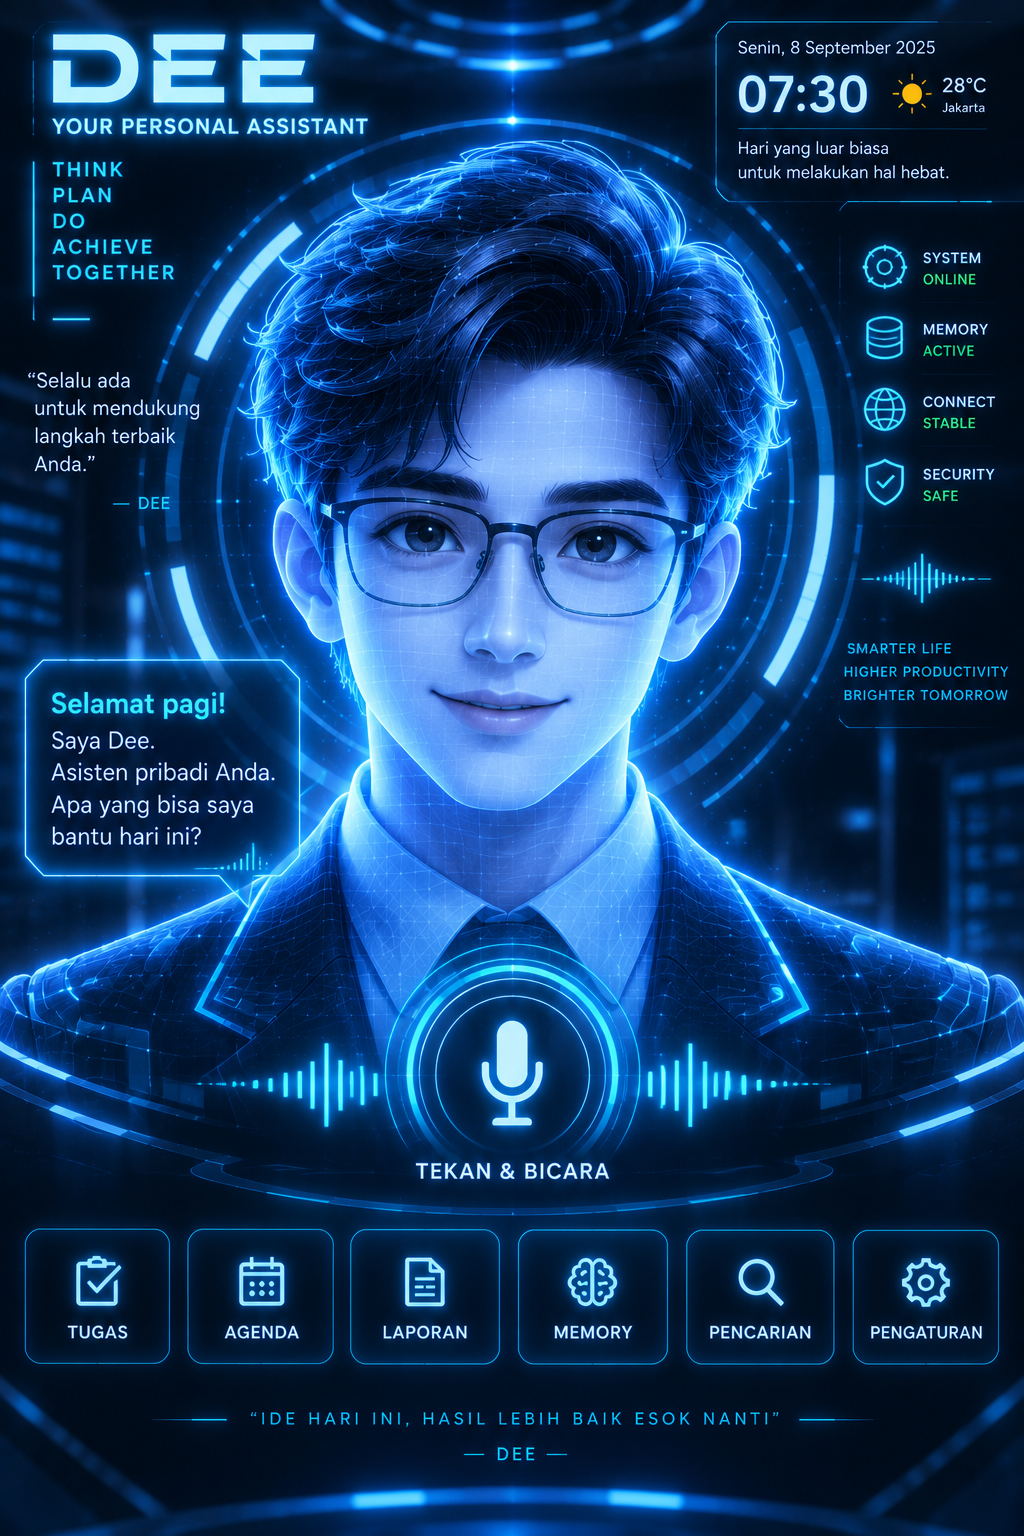
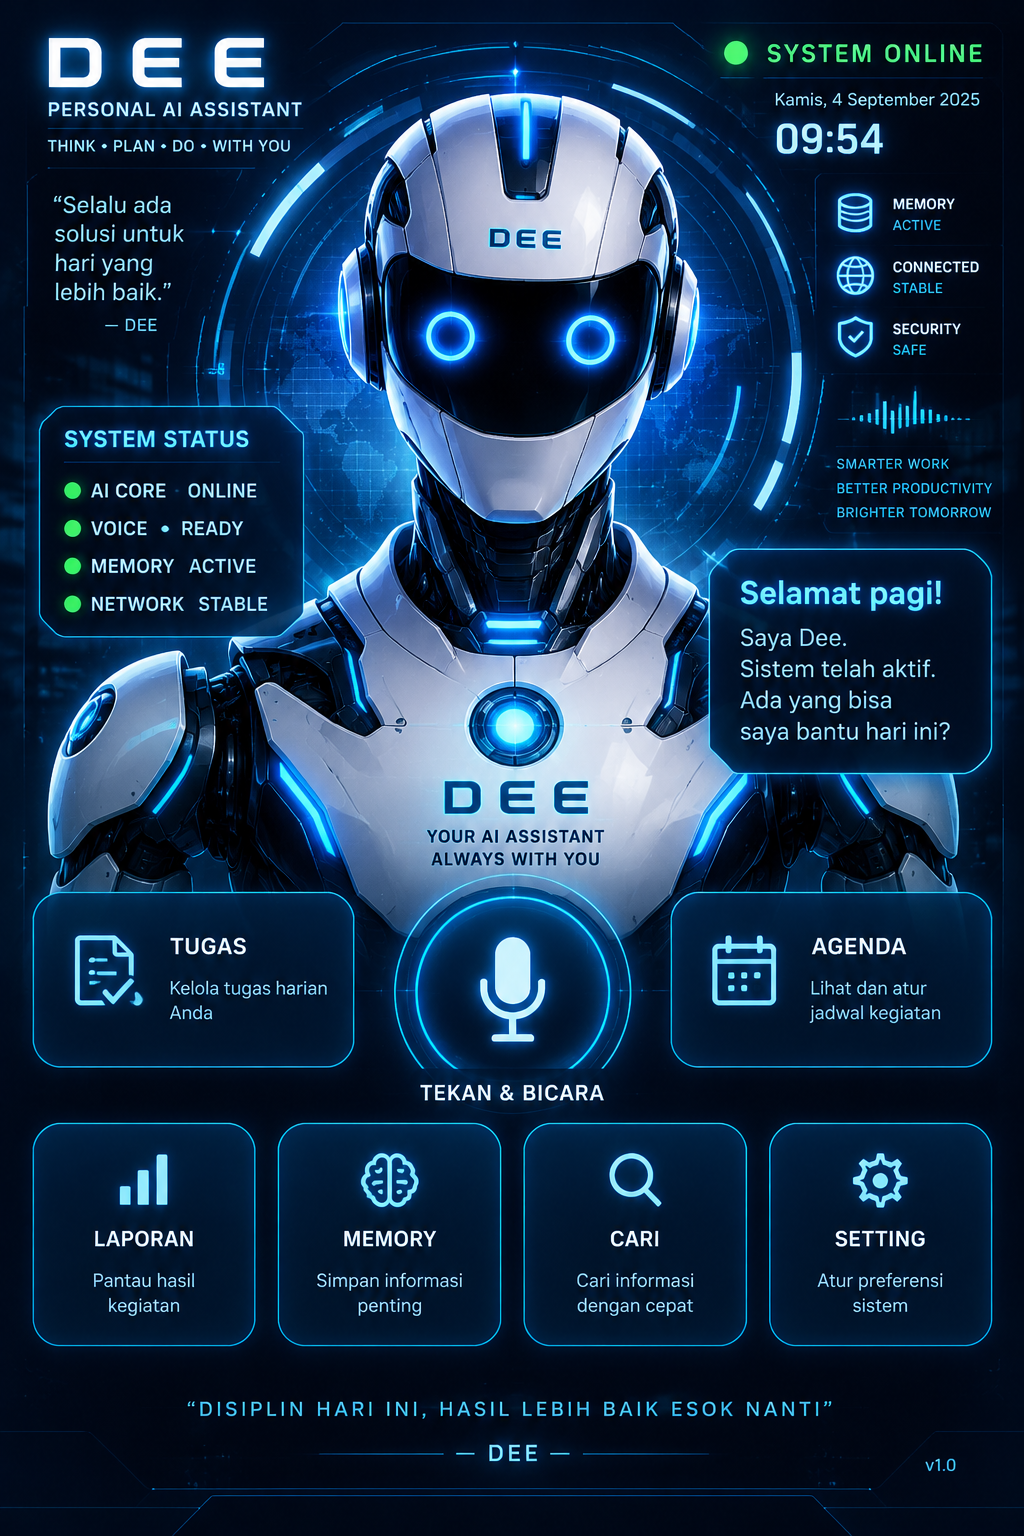
Add files via upload

diff --git a/index.html b/index.html
@@ -3,7 +3,7 @@
 <head>
 <meta charset="UTF-8">
 <meta name="viewport" content="width=device-width, initial-scale=1.0, maximum-scale=1.0, user-scalable=no">
-<title>DEE — Personal Assistant</title>
+<title>DEE — Personal AI Assistant</title>
 <style>
 *{box-sizing:border-box}
 html,body{margin:0;width:100%;height:100%;font-family:Arial,Helvetica,sans-serif;background:#020816;color:#eaf8ff;overflow:hidden}
@@ -67,7 +67,7 @@ body{display:flex;justify-content:center}
 
   <div class="bubble" id="bubble">
     <strong>Selamat pagi!</strong><br>
-    Saya Dee, asisten pribadi Anda.<br>
+    Saya Dee, personal AI assistant Anda.<br>
     Ada yang bisa saya bantu hari ini?
   </div>
 
@@ -118,7 +118,12 @@ function speak(text){
   if('speechSynthesis' in window){
     speechSynthesis.cancel();
     const u=new SpeechSynthesisUtterance(text);
-    u.lang='id-ID'; u.rate=.95; u.pitch=1;
+    u.lang='id-ID'; u.rate=.88; u.pitch=.72;
+    const voices=speechSynthesis.getVoices();
+    const preferred=voices.find(v => /id|ID/.test(v.lang) && /male|laki|pria/i.test(v.name))
+      || voices.find(v => /id|ID/.test(v.lang))
+      || voices.find(v => /en-US|en-GB/i.test(v.lang) && /male|David|Daniel|Alex/i.test(v.name));
+    if(preferred) u.voice=preferred;
     u.onend=()=>setMode('');
     speechSynthesis.speak(u);
   } else setTimeout(()=>setMode(''),1800);
